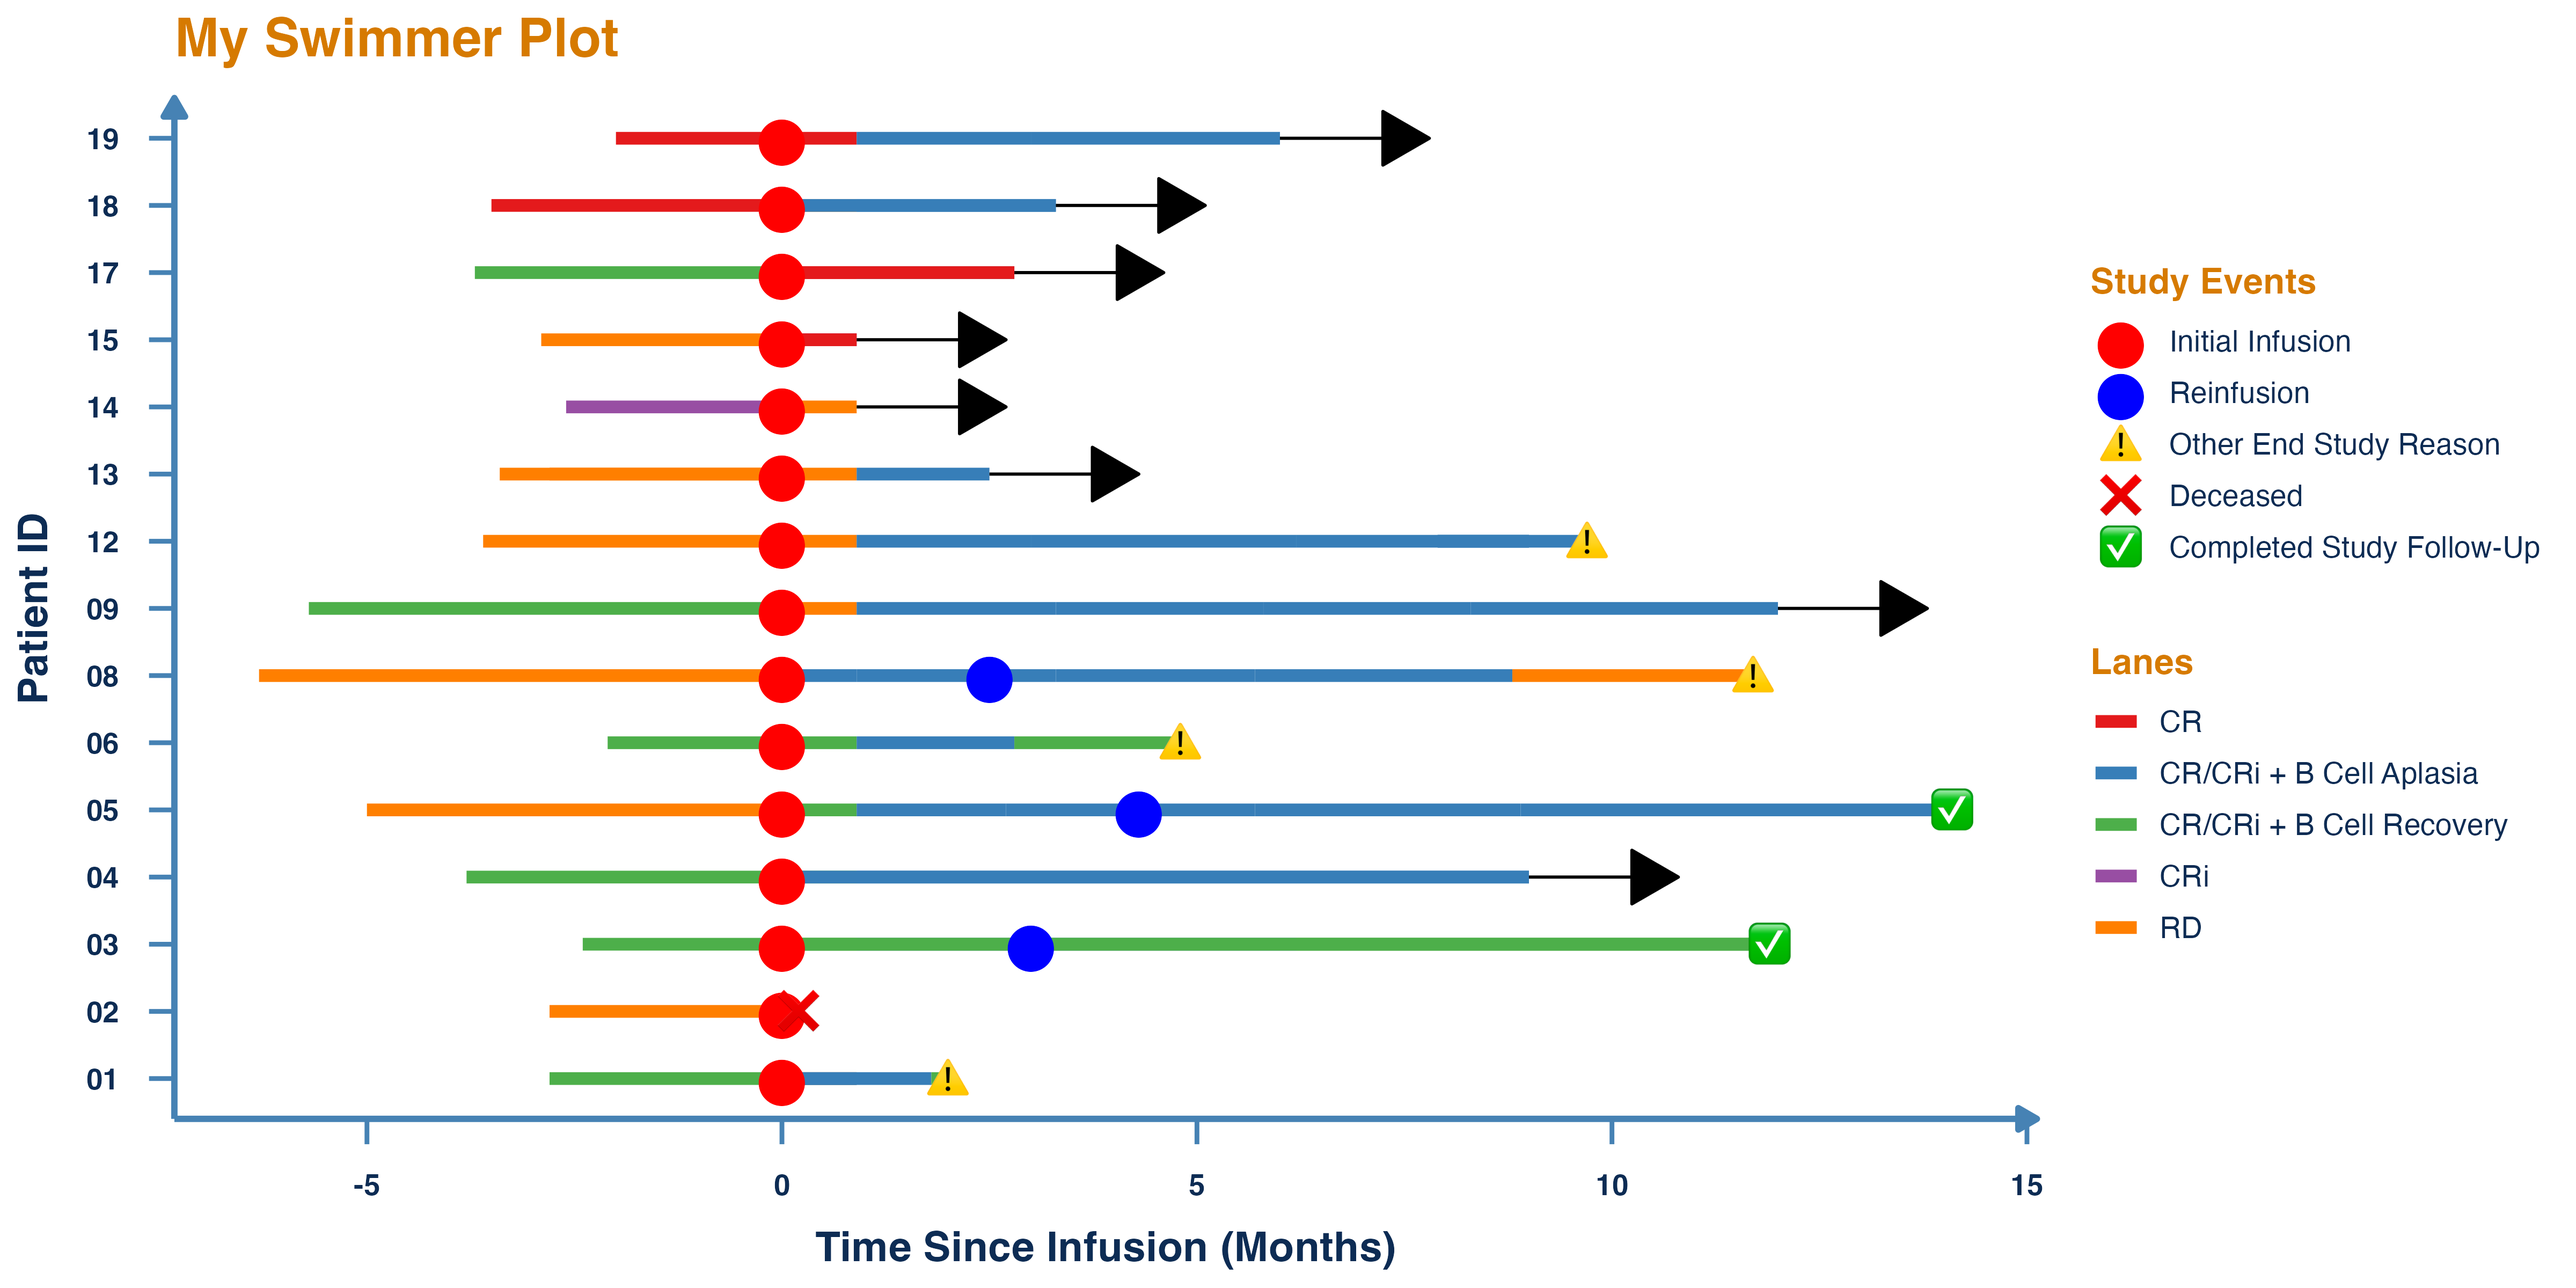
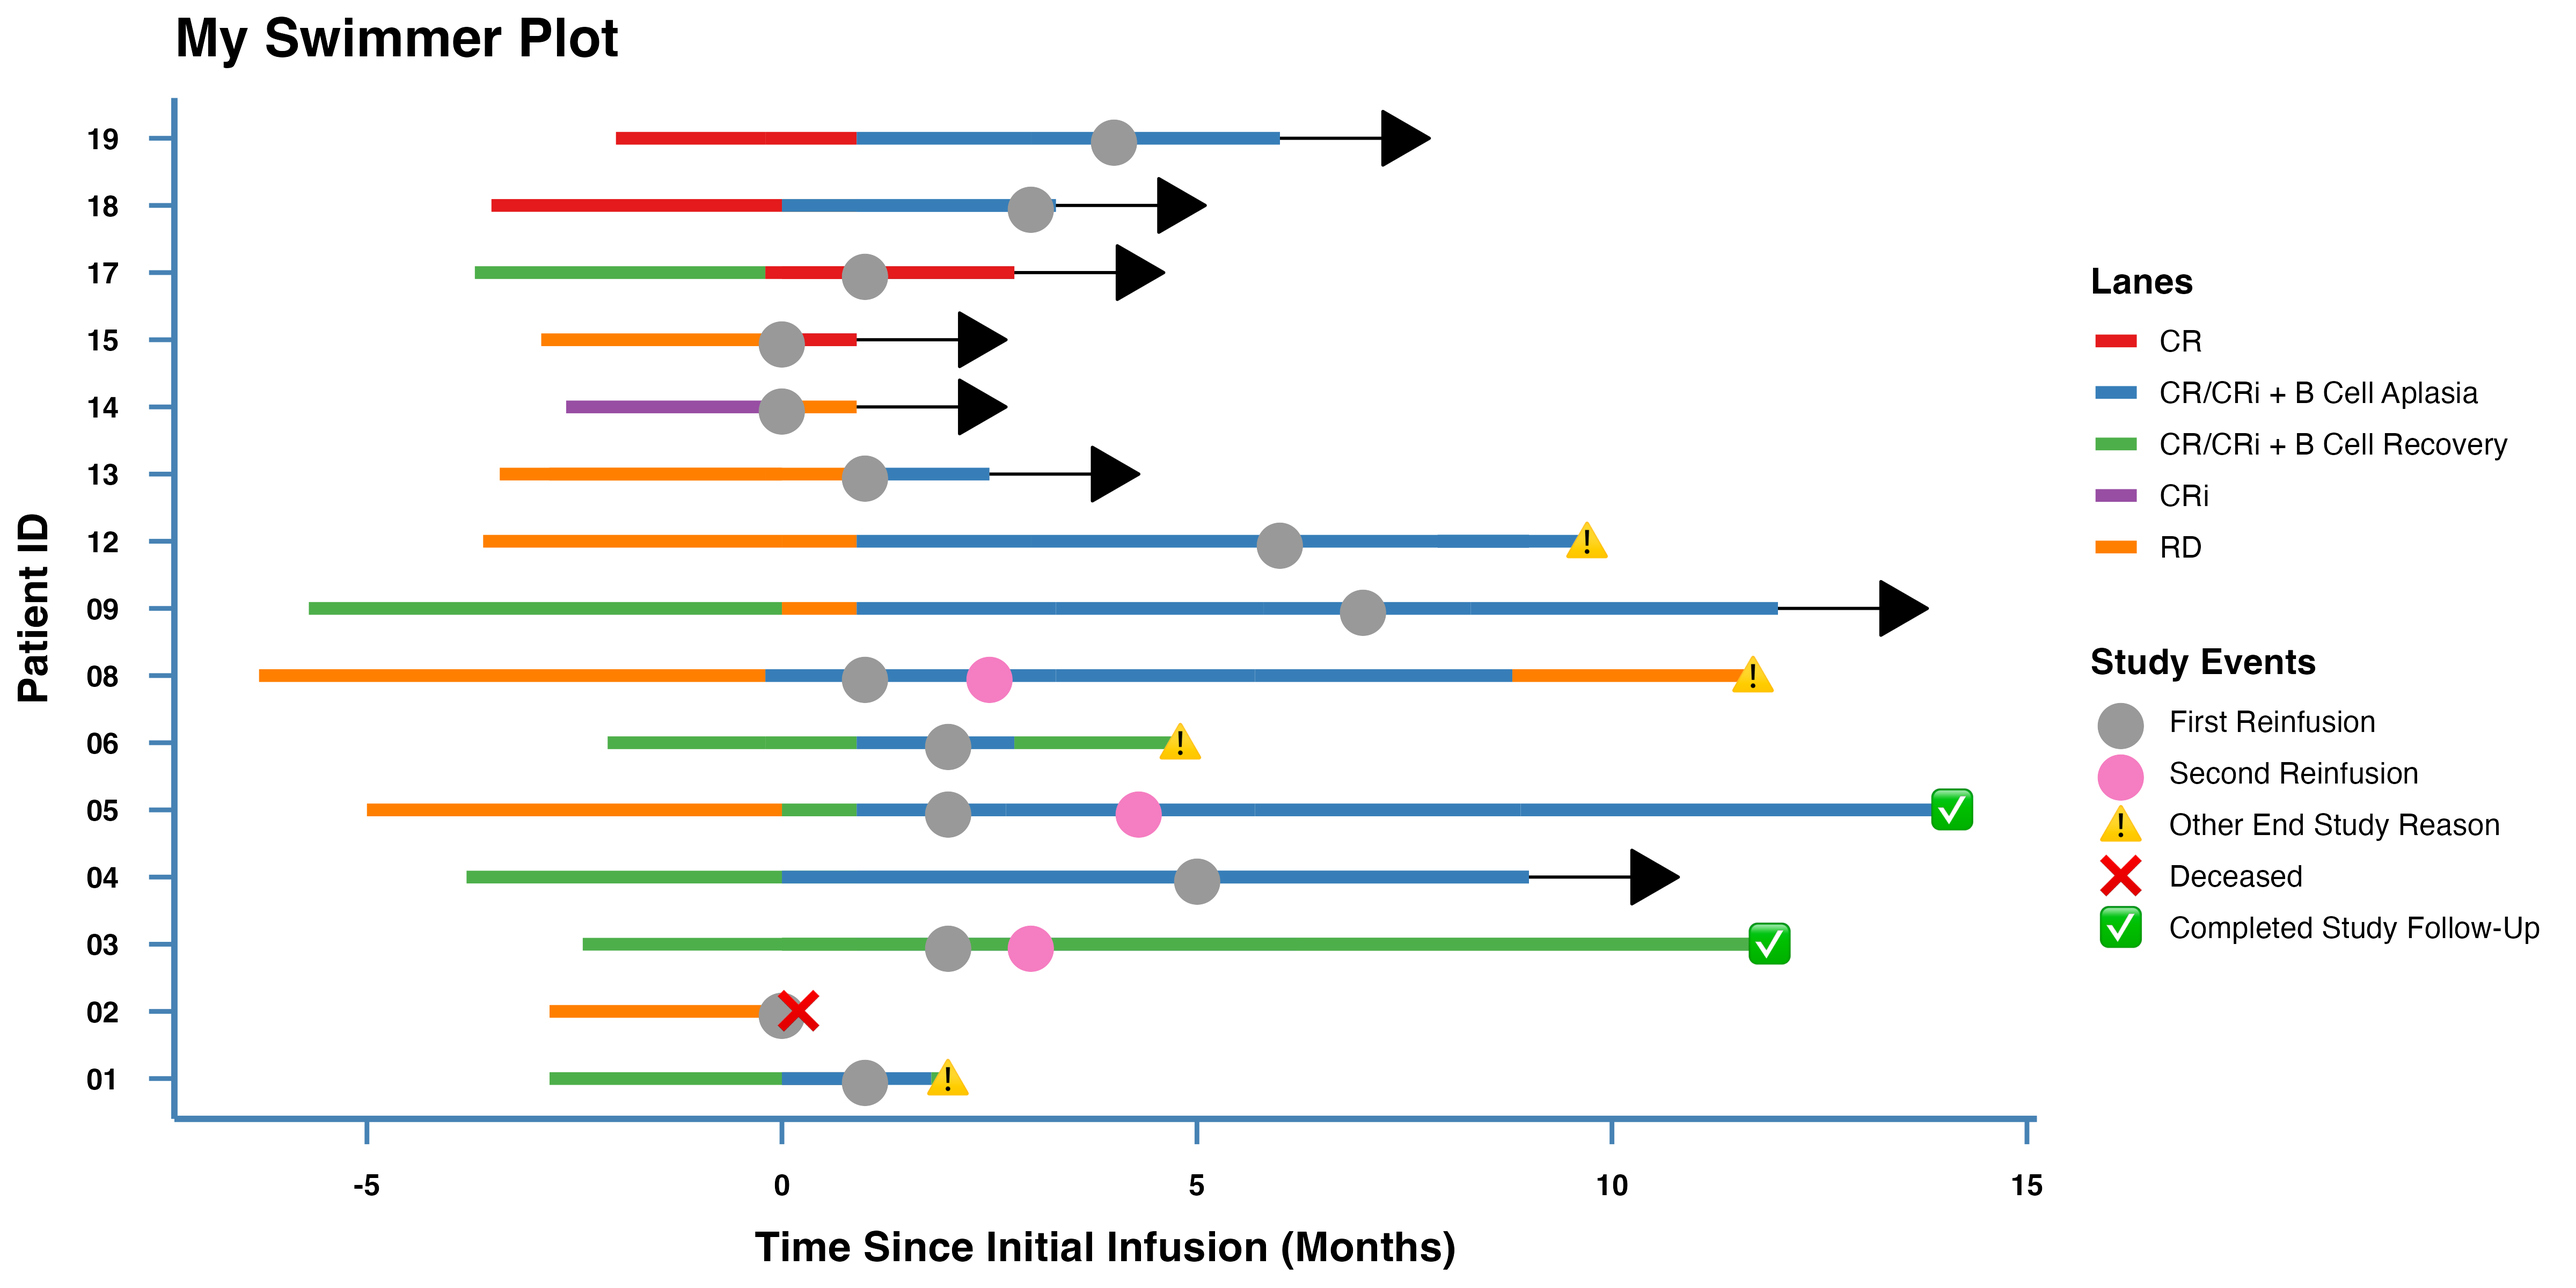
Update datasets, themes

diff --git a/README.md b/README.md
@@ -132,7 +132,7 @@ ggplot2 techniques and a last finishing touch with `theme_ggswim()`:
 p +
   scale_colour_brewer(name = "Lanes", palette = "Set1") +
   labs(title = "My Swimmer Plot") +
-  xlab("Time Since Infusion (Months)") + ylab("Patient ID") +
+  xlab("Time Since Initial Infusion (Months)") + ylab("Patient ID") +
   theme_ggswim()
 ```
 
